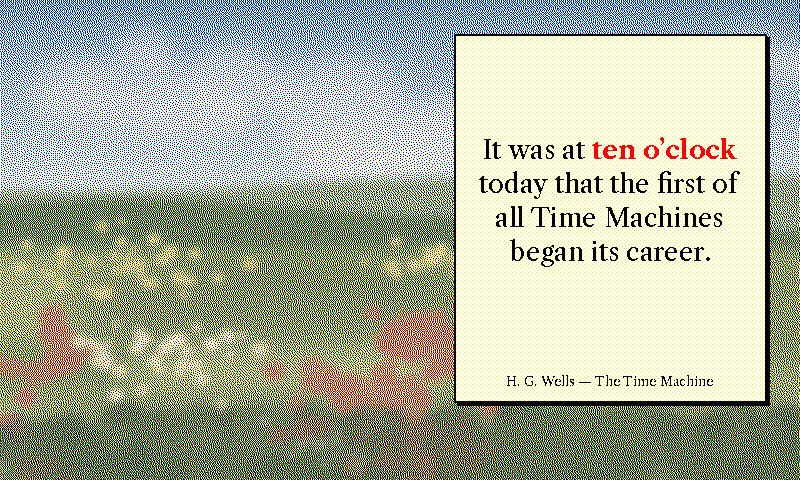
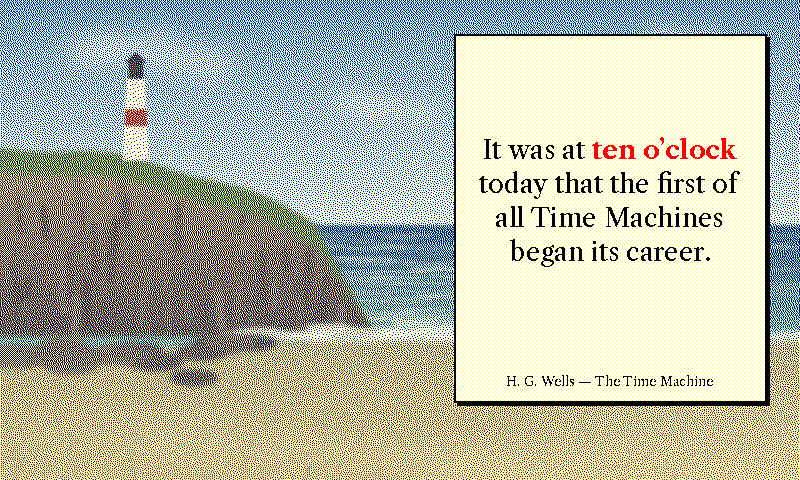
photo: its own default picture, a coast with a lighthouse
With no --photo-path set (or an unreadable one) the photo theme fell back
to autochrome's garden plate, so the two themes showed the same image.

It now ships its own plate, idle_hours/assets/photo_coast.png, generated
by scripts/generate_photo_plate.py: a bright midday coast with a
lighthouse on the headland, sea and sand. It is carried by blue and yellow
where the garden is green and red, and is held to the same tonal band so
it dithers to grain. The right-hand sky and sea stay quiet for the card.
A synthesised coast replaces the synthesised garden for a stripped
install, and photo no longer imports anything of autochrome's.

Claude-Session: https://claude.ai/code/session_01UYxsxg4WhNs7EKFdrFrM5n

diff --git a/scripts/generate_photo_plate.py b/scripts/generate_photo_plate.py
@@ -1,0 +1,218 @@
+#!/usr/bin/env python3
+"""One-time art generator for ``idle_hours/assets/photo_coast.png`` — the
+picture the ``photo`` theme shows when the operator has not pointed it at one
+of their own (or the one they named cannot be read).
+
+It used to borrow ``autochrome``'s garden, so with nothing configured the two
+themes showed the same meadow and read as one theme in the rotation. This
+plate is a different picture on purpose, and different in kind as well as in
+subject: ``autochrome`` is a soft, warm, pastel 1907 transparency, while this
+is a holiday snapshot — a bright coast at midday, a lighthouse on the
+headland, sea and sand. Blue and yellow carry it where the garden is green and
+red, so the two frames are told apart at a glance across a room.
+
+It is an *original work in the idiom* rather than a photograph, for the
+reasons ``generate_autochrome_plate.py`` documents, and it follows that
+script's one rule for surviving a six-ink dither: every mass goes down as a
+blurred mask, the chroma is held in the band ``photo``'s conditioning targets
+(it is not conditioned at render time, so it has to arrive there), and the
+key is high enough for white to carry the tone.
+
+The composition leaves the right-hand sky and sea quiet, because
+``_photo_card_rect`` places the caption card over the quietest region; the
+lighthouse and the headland sit on the left where the card will not go.
+
+Deterministic: a fixed SEED drives every random element, so re-runs are
+byte-stable.
+"""
+from __future__ import annotations
+
+import math
+import random
+from pathlib import Path
+
+from PIL import Image, ImageDraw, ImageFilter
+
+OUT = Path(__file__).resolve().parent.parent / "idle_hours" / "assets" / "photo_coast.png"
+W, H = 800, 480
+SS = 3            # supersample factor; smooth tone survives the downscale
+SEED = 1859       # the year the Longships light was lit
+
+HORIZON = 0.47    # sea meets sky, fraction of height
+SHORE = 0.70      # where the surf breaks on the beach
+
+
+def _lerp(a: tuple[int, int, int], b: tuple[int, int, int], t: float) -> tuple[int, int, int]:
+    t = max(0.0, min(1.0, t))
+    return tuple(int(round(a[i] + (b[i] - a[i]) * t)) for i in range(3))  # type: ignore[return-value]
+
+
+def _soft_layer(size: tuple[int, int], paint, blur: float) -> Image.Image:
+    """Draw ``paint`` onto a fresh 8-bit mask and blur it (see the autochrome
+    generator: a hard shape dithers to a blob with a rim, a soft mask to a
+    picture)."""
+    mask = Image.new("L", size, 0)
+    paint(ImageDraw.Draw(mask))
+    return mask.filter(ImageFilter.GaussianBlur(blur))
+
+
+def _gradient(size: tuple[int, int], top: tuple[int, int, int], bottom: tuple[int, int, int],
+              y0: int, y1: int, power: float = 1.0) -> Image.Image:
+    w, h = size
+    column = Image.new("RGB", (1, h))
+    cp = column.load()
+    for y in range(h):
+        cp[0, y] = _lerp(top, bottom, ((y - y0) / max(1, y1 - y0)) ** power if y > y0 else 0.0)
+    return column.resize((w, h))
+
+
+def main() -> None:
+    rng = random.Random(SEED)
+    w, h = W * SS, H * SS
+    horizon = int(h * HORIZON)
+    shore = int(h * SHORE)
+
+    # --- Sky: a clear midday blue, paling toward the horizon haze.
+    img = _gradient((w, h), (104, 150, 206), (206, 220, 228), 0, horizon, power=0.8)
+
+    # A few fair-weather clouds, kept small and high so the sky stays the
+    # quiet region the caption card is meant to find.
+    def _clouds(d: ImageDraw.ImageDraw) -> None:
+        for cx, cy, span in ((0.18, 0.12, 0.09), (0.47, 0.22, 0.06), (0.86, 0.09, 0.05)):
+            for _ in range(rng.randint(6, 9)):
+                bx = (cx + rng.uniform(-span, span)) * w
+                by = (cy + rng.uniform(-span, span) * 0.25) * h
+                r = span * w * rng.uniform(0.25, 0.45)
+                d.ellipse((bx - r, by - r * 0.6, bx + r, by + r * 0.6), fill=rng.randint(150, 220))
+    img.paste(Image.new("RGB", (w, h), (238, 240, 238)), (0, 0),
+              _soft_layer((w, h), _clouds, blur=SS * 9).point(lambda v: int(v * 0.7)))
+
+    # --- Sea: deeper blue at the horizon line, lightening and greening toward
+    # the shallows, laid as a soft band so the horizon is a transition.
+    sea = _gradient((w, h), (62, 104, 150), (120, 168, 170), horizon, shore, power=1.3)
+
+    def _sea_mask(d: ImageDraw.ImageDraw) -> None:
+        d.rectangle((0, horizon, w, h), fill=255)
+    img.paste(sea, (0, 0), _soft_layer((w, h), _sea_mask, blur=SS * 1.5))
+
+    # Sun glitter: broken horizontal streaks, brightest under the sun's side.
+    def _glitter(d: ImageDraw.ImageDraw) -> None:
+        for _ in range(220):
+            y = rng.uniform(horizon + h * 0.02, shore - h * 0.02)
+            x = rng.gauss(0.62, 0.16) * w
+            length = rng.uniform(0.01, 0.05) * w * (1.0 + (y - horizon) / (shore - horizon))
+            d.line((x - length, y, x + length, y), fill=rng.randint(120, 230), width=SS)
+    img.paste(Image.new("RGB", (w, h), (228, 234, 232)), (0, 0),
+              _soft_layer((w, h), _glitter, blur=SS * 1.2))
+
+    # --- The headland: a grassy cliff rising from the left edge, its face a
+    # darker rock band, sloping down into the sea at about a third across.
+    def _cliff_line(x: float) -> float:
+        t = x / (0.40 * w)
+        if t >= 1.0:
+            return float(horizon + h * 0.02)
+        return horizon - h * 0.16 * (1 - t ** 2.2) + h * 0.006 * math.sin(x / (w * 0.03))
+
+    def _headland(d: ImageDraw.ImageDraw) -> None:
+        d.polygon([(0, shore), *[(x, _cliff_line(x)) for x in range(0, int(0.40 * w), SS)],
+                   (int(0.40 * w), horizon + h * 0.02), (int(0.47 * w), shore)], fill=255)
+    img.paste(Image.new("RGB", (w, h), (104, 130, 82)), (0, 0),
+              _soft_layer((w, h), _headland, blur=SS * 2))
+
+    # The cliff face: warm sandstone under the turf, streaked by weathering
+    # (vertical strokes at varying tone) and darkening toward the waterline,
+    # so it reads as rock rather than as a flat grey slab.
+    def _rock_face(d: ImageDraw.ImageDraw) -> None:
+        pts = [(x, _cliff_line(x) + h * 0.05) for x in range(0, int(0.40 * w), SS)]
+        d.polygon([(0, shore), *pts, (int(0.40 * w), horizon + h * 0.06), (int(0.47 * w), shore)],
+                  fill=255)
+    face = _soft_layer((w, h), _rock_face, blur=SS * 3)
+    rock = _gradient((w, h), (156, 138, 116), (92, 84, 80), horizon - int(h * 0.12), shore)
+    rp = ImageDraw.Draw(rock)
+    for _ in range(90):
+        x = rng.uniform(0, 0.46) * w
+        y0 = rng.uniform(HORIZON - 0.12, SHORE - 0.06) * h
+        tone = rng.randint(70, 150)
+        rp.line((x, y0, x + rng.uniform(-SS * 4, SS * 4), y0 + rng.uniform(0.04, 0.12) * h),
+                fill=(tone, int(tone * 0.92), int(tone * 0.84)), width=rng.randint(SS * 2, SS * 6))
+    rock = rock.filter(ImageFilter.GaussianBlur(SS * 2.5))
+    img.paste(rock, (0, 0), face)
+
+    # --- The lighthouse: a white tower with one red band and a dark lantern,
+    # small enough to be part of the view rather than its subject.
+    lx = 0.17 * w
+    base = _cliff_line(lx) + SS * 2
+    top = base - h * 0.17
+
+    def _tower(d: ImageDraw.ImageDraw) -> None:
+        d.polygon([(lx - w * 0.016, base), (lx - w * 0.011, top),
+                   (lx + w * 0.011, top), (lx + w * 0.016, base)], fill=255)
+    img.paste(Image.new("RGB", (w, h), (236, 234, 226)), (0, 0),
+              _soft_layer((w, h), _tower, blur=SS * 0.8))
+
+    def _band(d: ImageDraw.ImageDraw) -> None:
+        y0, y1 = top + (base - top) * 0.38, top + (base - top) * 0.58
+        d.rectangle((lx - w * 0.016, y0, lx + w * 0.016, y1), fill=255)
+    band = _soft_layer((w, h), _band, blur=SS * 0.8)
+    band = Image.composite(band, Image.new("L", (w, h), 0), _soft_layer((w, h), _tower, blur=SS * 0.8))
+    img.paste(Image.new("RGB", (w, h), (178, 72, 58)), (0, 0), band)
+
+    def _lantern(d: ImageDraw.ImageDraw) -> None:
+        d.rectangle((lx - w * 0.009, top - h * 0.035, lx + w * 0.009, top), fill=255)
+        d.polygon([(lx - w * 0.013, top - h * 0.035), (lx, top - h * 0.055),
+                   (lx + w * 0.013, top - h * 0.035)], fill=255)
+    img.paste(Image.new("RGB", (w, h), (52, 54, 58)), (0, 0),
+              _soft_layer((w, h), _lantern, blur=SS * 0.8))
+
+    # --- Surf: a broken white line where the waves break, and the wet sand
+    # behind it reflecting the sky.
+    def _surf(d: ImageDraw.ImageDraw) -> None:
+        for _ in range(140):
+            x = rng.uniform(0.30, 1.02) * w
+            y = shore + rng.gauss(0, h * 0.008)
+            d.ellipse((x - w * 0.03, y - SS * 3, x + w * 0.03, y + SS * 3), fill=rng.randint(170, 255))
+    img.paste(Image.new("RGB", (w, h), (236, 238, 234)), (0, 0),
+              _soft_layer((w, h), _surf, blur=SS * 2))
+
+    # --- Beach: warm dry sand toward the viewer, a darker wet band at the
+    # waterline, and broad dune shadow so the dither has tone to break up.
+    sand = _gradient((w, h), (176, 168, 140), (226, 204, 150), shore, h, power=0.7)
+
+    def _beach(d: ImageDraw.ImageDraw) -> None:
+        d.polygon([(int(0.30 * w), shore + h * 0.012), (w, shore + h * 0.012), (w, h), (0, h),
+                   (0, shore + h * 0.05)], fill=255)
+    img.paste(sand, (0, 0), _soft_layer((w, h), _beach, blur=SS * 3))
+
+    def _ripples(d: ImageDraw.ImageDraw) -> None:
+        for _ in range(10):
+            cx = rng.uniform(-0.1, 1.1) * w
+            cy = rng.uniform(SHORE + 0.08, 1.0) * h
+            rx = rng.uniform(0.15, 0.32) * w
+            d.ellipse((cx - rx, cy - rx * 0.08, cx + rx, cy + rx * 0.08), fill=rng.randint(90, 170))
+    img.paste(Image.new("RGB", (w, h), (196, 176, 128)), (0, 0),
+              _soft_layer((w, h), _ripples, blur=SS * 10))
+
+    # Rocks at the foot of the headland: low, flat boulders in a few tones,
+    # each with a lit top, so the corner closes on shadow without blobs.
+    for tone_rgb, count in (((84, 80, 78), 9), ((120, 110, 98), 7)):
+        def _rocks(d: ImageDraw.ImageDraw, count: int = count) -> None:
+            for _ in range(count):
+                x = rng.uniform(0.0, 0.34) * w
+                y = rng.uniform(SHORE + 0.01, 0.80) * h
+                r = rng.uniform(0.02, 0.045) * w
+                d.ellipse((x - r, y - r * 0.35, x + r, y + r * 0.35), fill=rng.randint(200, 255))
+        img.paste(Image.new("RGB", (w, h), tone_rgb), (0, 0),
+                  _soft_layer((w, h), _rocks, blur=SS * 2.5))
+
+    # A mild snapshot finish: a slight lift and a touch of softness, so error
+    # diffusion has gradients rather than edges to work on.
+    out = img.point(lambda v: int(round(14 + v * 0.93)))
+    out = out.filter(ImageFilter.GaussianBlur(SS * 0.9))
+    out = out.resize((W, H), Image.Resampling.LANCZOS)
+    OUT.parent.mkdir(parents=True, exist_ok=True)
+    out.save(OUT)
+    print(f"wrote {OUT}")
+
+
+if __name__ == "__main__":
+    main()

diff --git a/idle_hours/render_quote/themes/photo.py b/idle_hours/render_quote/themes/photo.py
@@ -22,13 +22,15 @@ from ..layout import fit_quote, strip_underscore_emphasis
 from ..palette import (
     SPECTRA6,
     SPECTRA6_PALETTE,
+    BAYER_8x8,
     _load_dithered_plate,
     dither_image_to_palette,
     gray_pixel_access,
+    pixel_access,
     snap_image_to_palette,
 )
+from ..primitives import _flow_stroke_hash
 from ..spec import FrameSpec
-from ._shared import _AUTOCHROME_PALETTE, AUTOCHROME_PLATE, _autochrome_paint_garden_fallback
 
 # ---------------------------------------------------------------------------
 # photo — the operator's own picture
@@ -58,8 +60,15 @@ from ._shared import _AUTOCHROME_PALETTE, AUTOCHROME_PLATE, _autochrome_paint_ga
 # Everything else is defensive. The source is a file or a directory (rotated
 # with the quote via ``_row_digest``), and every operator failure mode — a
 # missing path, a misnamed file, CMYK, EXIF rotation, a decompression bomb, an
-# empty directory — degrades to the bundled ``autochrome`` plate with a
+# empty directory — degrades to the bundled coast plate (``PHOTO_PLATE``) with a
 # latched warning rather than raising into the per-tick render path.
+
+# The picture shown when nothing is configured or the configured source
+# cannot be read: a coast with a lighthouse (scripts/generate_photo_plate.py).
+# It is deliberately not ``autochrome``'s garden, which this theme borrowed
+# until the two read as one theme in the rotation. Dithered against all six
+# inks, like an operator's photograph.
+PHOTO_PLATE = BASE_DIR / "assets" / "photo_coast.png"
 
 # Extensions attempted from a directory listing: an allowlist, because probing
 # every file with Image.open is slow and a wider attack surface.
@@ -370,7 +379,7 @@ def _photo_frame_for(quote_row: dict, width: int, height: int) -> tuple[Image.Im
     smooth regions into high-edge-energy stipple, inverting the score so the
     card lands on the part of the picture worth keeping.
 
-    Falls back to the bundled ``autochrome`` garden when nothing is configured
+    Falls back to the bundled coast plate (``PHOTO_PLATE``) when nothing is configured
     or the source cannot be read, so the theme always renders and, with the
     environment variable unset, is byte-deterministic (it has a golden
     fixture).
@@ -401,20 +410,49 @@ def _photo_frame_for(quote_row: dict, width: int, height: int) -> tuple[Image.Im
 
 
 def _photo_fallback_frame(width: int, height: int) -> tuple[Image.Image, tuple[int, int, int, int]]:
-    """The bundled ``autochrome`` garden, measured for card placement the same
-    way an operator's photograph is - off the continuous-tone source, not the
+    """The bundled coast plate, measured for card placement the same way an
+    operator's photograph is - off the continuous-tone source, not the
     dithered plate."""
-    plate = _load_dithered_plate(AUTOCHROME_PLATE, width, height, palette=_AUTOCHROME_PALETTE)
+    plate = _load_dithered_plate(PHOTO_PLATE, width, height, palette=SPECTRA6_PALETTE)
     try:
-        with Image.open(AUTOCHROME_PLATE) as raw:
+        with Image.open(PHOTO_PLATE) as raw:
             source = raw.convert("RGB").resize((width, height), Image.Resampling.LANCZOS)
     except (OSError, ValueError):
         source = None
     if plate is None:
         plate = Image.new("RGB", (width, height), SPECTRA6["white"])
-        _autochrome_paint_garden_fallback(plate)
+        _photo_paint_coast_fallback(plate)
     rect = _photo_card_rect(source if source is not None else plate, width, height)
     return plate, rect
+
+
+def _photo_paint_coast_fallback(image: Image.Image) -> None:
+    """A stripped install still gets a coast-shaped colour picture: sky
+    paling to the horizon, a blue sea, a white surf line and yellow sand, as
+    ``BAYER_8x8`` density ramps, with a dark headland on the left so the card
+    still has a quiet side to find."""
+    px = pixel_access(image)
+    width, height = image.size
+    white, black, blue, green, yellow = (
+        SPECTRA6[c] for c in ("white", "black", "blue", "green", "yellow"))
+    horizon, shore = int(height * 0.47), int(height * 0.70)
+    for y in range(height):
+        row = BAYER_8x8[y % 8]
+        for x in range(width):
+            if y < horizon:
+                density, ink, ground = 0.40 * (1.0 - y / horizon) ** 0.8, blue, white
+            elif y < shore - 3:
+                density, ink, ground = 0.38 + 0.20 * (shore - y) / (shore - horizon), blue, white
+                if _flow_stroke_hash(x // 6, y, 5) < 0.06:
+                    ink = white
+            elif y < shore + 3:
+                density, ink, ground = 0.0, black, white
+            else:
+                density, ink, ground = 0.42, yellow, white
+            cliff = horizon - (height * 0.16) * max(0.0, 1.0 - (x / (width * 0.40)) ** 2.2)
+            if x < width * 0.42 and cliff <= y < shore:
+                density, ink, ground = 0.55, black, green
+            px[x, y] = ink if row[x % 8] < 64 * density else ground
 
 
 def _photo_cost_map(image: Image.Image, cols: int = 20, rows: int = 12) -> list[list[float]]:

diff --git a/tests/test_render_quote_themes.py b/tests/test_render_quote_themes.py
@@ -3887,17 +3887,35 @@ class TestPhotoTheme:
             "could never be invalidated"
         )
 
+    def test_the_default_picture_is_not_autochromes(self):
+        """Unconfigured, the theme shows its own coast, not ``autochrome``'s
+        garden: borrowing that plate made the two themes look the same in the
+        rotation. The coast is a blue-and-yellow picture where the garden is
+        a green-and-red one, so the ink mix tells them apart."""
+        assert rq_themes.photo.PHOTO_PLATE != rq.AUTOCHROME_PLATE
+        rq.clear_photo_cache()
+        plate, _ = rq_themes.photo._photo_fallback_frame(800, 480)
+        counts = ink_counts(plate)
+        coast = counts.get(rq.SPECTRA6["blue"], 0) + counts.get(rq.SPECTRA6["yellow"], 0)
+        meadow = counts.get(rq.SPECTRA6["green"], 0) + counts.get(rq.SPECTRA6["red"], 0)
+        assert coast > 2 * meadow, (
+            f"blue+yellow {coast} vs green+red {meadow} — the default picture no "
+            "longer reads as a coast"
+        )
+        for ink in rq.SPECTRA6.values():
+            assert counts.get(ink, 0) > 0, "the coast plate has dropped an ink"
+
     def test_a_stripped_install_still_renders(self, tmp_path, monkeypatch):
         """Fallback of the fallback: nothing configured *and* the bundled plate
-        gone. The synthesised garden keeps the theme a colour picture."""
-        monkeypatch.setattr(rq_themes.photo, "AUTOCHROME_PLATE", tmp_path / "absent.png")
+        gone. The synthesised coast keeps the theme a colour picture."""
+        monkeypatch.setattr(rq_themes.photo, "PHOTO_PLATE", tmp_path / "absent.png")
         rq.clear_photo_cache()
         rq._DITHER_CACHE.clear()
         image = self._render()
         assert distinct_inks(image) <= set(rq.SPECTRA6.values())
         counts = ink_counts(image)
         total = 800 * 480
-        for ink in ("blue", "green"):
+        for ink in ("blue", "yellow", "green"):
             assert counts.get(rq.SPECTRA6[ink], 0) / total > 0.01, (
                 f"the synthesised fallback has almost no {ink}"
             )

diff --git a/docs/themes.md b/docs/themes.md
@@ -877,7 +877,7 @@ Imports `pick_quote` in-process (`pick_quote_module.select_quote`) and lays out 
     - *A flat gravel walk* floated as a beige wedge.
     - *A light sage green* sat far enough from every ink for error diffusion to reach for blue and speckle the grass cold.
     - *A composition test counting adjacent same-ink pixels* was vacuous: Floyd–Steinberg disperses by construction, so it passed for any source at all, flat fields included.
-  - `photo` (the operator's own picture) — the open-ended sibling of `autochrome`, and the only theme whose art is not committed. A custom-render frame (`render_photo_frame`).
+  - `photo` (the operator's own picture, or a bundled coast when none is set) — the open-ended sibling of `autochrome`, and the only theme whose art the operator chooses. A custom-render frame (`render_photo_frame`).
 
     **Source.** `--photo-path` (config key `photo_path`) names an image **or a directory**; a directory rotates deterministically as the displayed quote changes, driven by `_row_digest` rather than the clock, which is both the cadence a picture-frame appliance wants and what keeps run_clock's "quote unchanged, skip the redraw" dedup working.
 
@@ -899,7 +899,9 @@ Imports `pick_quote` in-process (`pick_quote_module.select_quote`) and lays out 
 
     **`photo_source_stamp` is public because the curator UI caches encoded PNGs.** `web_server._api_preview`'s key is theme, mode, dimensions, time, quote identity and corpus stamps — *none* of which move when an operator swaps the file at `--photo-path`. That cache answers before `_photo_frame_for` runs, so the mtime-aware key below never gets consulted and the preview would show the old picture until the entry is evicted. The stamp resolves the row's own photograph, so a directory whose membership changed is covered too: adding or removing a file can move which entry the row digest lands on, and the resolved path is what is stamped. Computed only for `theme == "photo"` — it costs a directory listing plus a stat, and every other theme's preview must stay free of both.
 
-    **Every failure degrades to the bundled `autochrome` garden with a latched warning**, never raising into the per-tick render path: a missing path, a text file named `.jpg`, a truncated or zero-byte file, a CMYK scan, a palette or alpha PNG, an EXIF-rotated phone photo, a 13×9 thumbnail, a 4000×60 panorama, an empty directory. That fallback is also what makes the theme byte-deterministic with the variable unset, which is what lets it carry a golden fixture at all — and `tests/conftest.py` unsets the variable for every test, because a developer who exported it for their own appliance would otherwise have `UPDATE_RENDER_GOLDEN=1` bake their holiday photos into a committed fixture. The decoded-frame cache is a bounded LRU (the `betweenus` paper-cache lesson — a directory can hold thousands of files at ~1.1 MB a frame) keyed on path, mtime and size, so replacing the file at a configured path shows the new picture. **A photograph carries no clock**: `time_str` is del-asserted, `daguerreotype`'s rule. Saturation tier `0.5`.
+    **The default picture is its own: a coast with a lighthouse** (`PHOTO_PLATE`, `idle_hours/assets/photo_coast.png`, from `scripts/generate_photo_plate.py`). The theme used to fall back to `autochrome`'s garden, so with nothing configured the two showed the same meadow and read as one theme in the rotation. The coast is a different picture in kind as well as subject: a bright midday holiday snapshot rather than a soft pastel 1907 plate, carried by blue and yellow where the garden is green and red (`test_the_default_picture_is_not_autochromes` pins the ink mix). It is held to the same tonal band as the garden (chroma ~0.19, mean ~0.76) because it is not conditioned at render time, and it keeps the right-hand sky and sea quiet so the card has somewhere to land, with the lighthouse and headland on the left. If the asset is missing, `_photo_paint_coast_fallback` synthesises a coast from Bayer density ramps.
+
+    **Every failure degrades to the bundled coast plate with a latched warning**, never raising into the per-tick render path: a missing path, a text file named `.jpg`, a truncated or zero-byte file, a CMYK scan, a palette or alpha PNG, an EXIF-rotated phone photo, a 13×9 thumbnail, a 4000×60 panorama, an empty directory. That fallback is also what makes the theme byte-deterministic with the variable unset, which is what lets it carry a golden fixture at all — and `tests/conftest.py` unsets the variable for every test, because a developer who exported it for their own appliance would otherwise have `UPDATE_RENDER_GOLDEN=1` bake their holiday photos into a committed fixture. The decoded-frame cache is a bounded LRU (the `betweenus` paper-cache lesson — a directory can hold thousands of files at ~1.1 MB a frame) keyed on path, mtime and size, so replacing the file at a configured path shows the new picture. **A photograph carries no clock**: `time_str` is del-asserted, `daguerreotype`'s rule. Saturation tier `0.5`.
 
     **Tried and rejected.**
     - *A blanket "make everything pastel" pass* damages gentle material in order to fix lurid material.

diff --git a/CHANGELOG.md b/CHANGELOG.md
@@ -17,6 +17,9 @@ these entries under the new dated version heading.
   caption lettered beneath in white, the matched phrase in yellow. `photo`
   keeps its floating card and is now the only one with a card. Both themes
   move to the 0.7 saturation tier for their darker grounds.
+- `photo` has its own default picture: a coast with a lighthouse, shown
+  when no `--photo-path` is set or the configured picture can't be read.
+  It used to borrow `autochrome`'s garden, so the two showed the same image.
 - New `splitflap` theme: a split-flap message board on a wall, in the manner
   of a Vestaboard. The quote is set in capitals on a fixed grid of flap
   tiles, each split by its hinge, with the matched phrase on yellow colour
